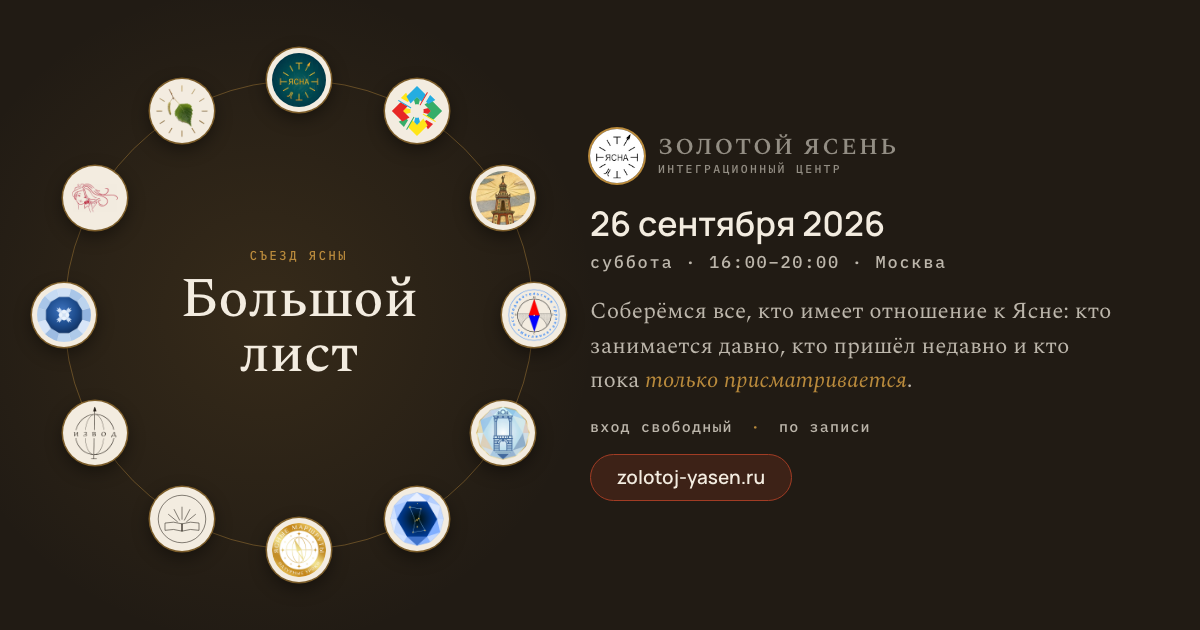
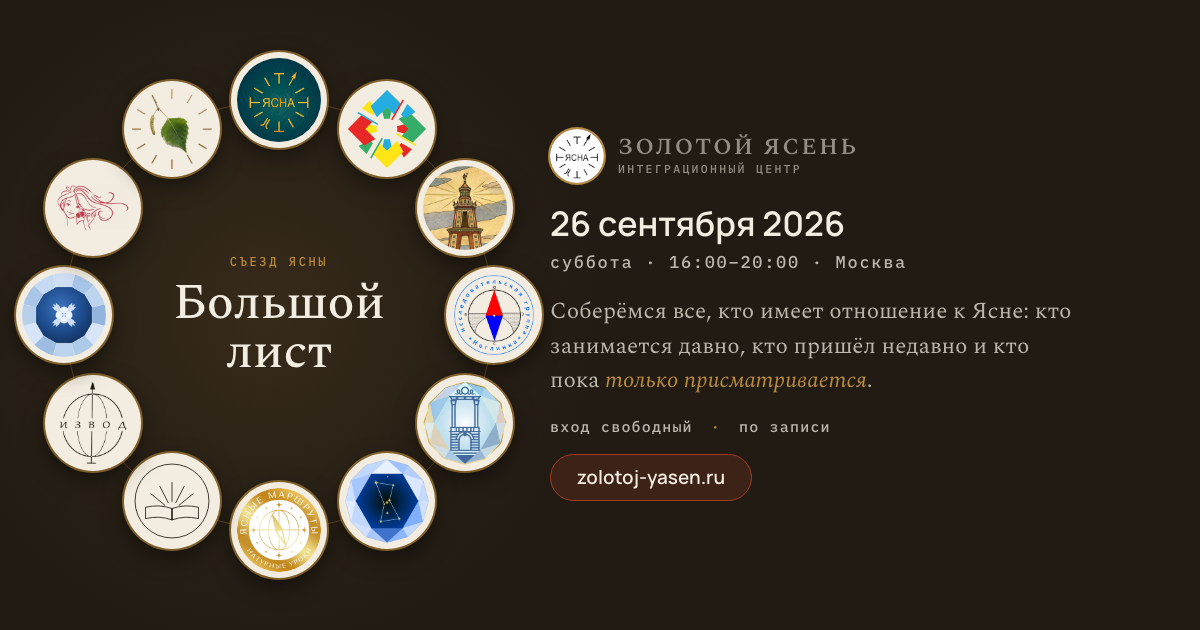
Приглашение: эмблемы крупнее и теснее по кольцу
Медальоны на вертикальной картинке выросли со 98 до 150px, просвет
между ними сжался со 101 до 38px — логотипы читаются, кольцо стало
плотным. Кольцо пришлось сжать с 760 до 720px, а текст в центре
с 520 до 440px: иначе углы текстового блока заходили под медальоны.

Горизонтальная подтянута к паре: медальоны 64 → 96px, кольцо
470 → 430px, чтобы верхний и нижний не обрезались краем карточки.
Геометрия проверена расчётом: просветы и зазор до текста считаются
в скрипте перед рендером.

Changed region(s): [[0.0, 0.0603, 0.925, 0.9349], [0.185, 0.5429, 0.3083, 0.6032], [0.185, 0.3921, 0.2775, 0.4222]]

diff --git a/tools/priglashenie/maket.html b/tools/priglashenie/maket.html
@@ -33,19 +33,19 @@
 
   /* кольцо: двенадцать управлений вокруг названия — образ съезда */
   .ring{position:relative; margin:0 auto}
-  body.v .ring{width:760px; height:760px; margin-top:82px}
+  body.v .ring{width:720px; height:720px; margin-top:68px}
   .ring .circle{position:absolute; inset:0; border-radius:50%;
     border:1px solid rgba(185,138,60,.42)}
   .ring .med{position:absolute; left:var(--x); top:var(--y); transform:translate(-50%,-50%);
-    width:98px; height:98px; border-radius:50%; overflow:hidden; background:var(--paper);
-    box-shadow:0 0 0 2px rgba(185,138,60,.6), 0 10px 28px rgba(0,0,0,.45)}
-  .ring .med img{width:100%; height:100%; object-fit:cover; padding:8px; border-radius:50%}
+    width:150px; height:150px; border-radius:50%; overflow:hidden; background:var(--paper);
+    box-shadow:0 0 0 2.5px rgba(185,138,60,.62), 0 12px 32px rgba(0,0,0,.5)}
+  .ring .med img{width:100%; height:100%; object-fit:cover; padding:9px; border-radius:50%}
 
   .center{position:absolute; left:50%; top:50%; transform:translate(-50%,-50%);
-    width:520px; text-align:center}
+    width:440px; text-align:center}
   .kicker{font:500 17px/1.5 'IBM Plex Mono',monospace; letter-spacing:.24em;
     text-transform:uppercase; color:var(--gold); margin-bottom:18px}
-  .title{font:500 96px/.98 'Spectral',Georgia,serif; letter-spacing:-.01em}
+  .title{font:500 88px/.98 'Spectral',Georgia,serif; letter-spacing:-.01em}
   .date{margin-top:22px; font:600 30px/1.3 'Manrope',sans-serif; color:var(--paper)}
   .time{margin-top:8px; font:500 20px/1.5 'IBM Plex Mono',monospace;
     letter-spacing:.1em; color:var(--pg)}

diff --git a/tools/priglashenie/maket-gorizont.html b/tools/priglashenie/maket-gorizont.html
@@ -17,17 +17,17 @@
     transform:translate(-50%,-50%); pointer-events:none;
     background:radial-gradient(circle, rgba(185,138,60,.14), rgba(33,27,20,0) 62%)}
 
-  .ring{position:relative; width:470px; height:470px; flex:none}
+  .ring{position:relative; width:430px; height:430px; flex:none}
   .ring .circle{position:absolute; inset:0; border-radius:50%; border:1px solid rgba(185,138,60,.42)}
   .ring .med{position:absolute; left:var(--x); top:var(--y); transform:translate(-50%,-50%);
-    width:64px; height:64px; border-radius:50%; overflow:hidden; background:var(--paper);
-    box-shadow:0 0 0 1.5px rgba(185,138,60,.6), 0 6px 18px rgba(0,0,0,.45)}
-  .ring .med img{width:100%; height:100%; object-fit:cover; padding:5px; border-radius:50%}
+    width:96px; height:96px; border-radius:50%; overflow:hidden; background:var(--paper);
+    box-shadow:0 0 0 2px rgba(185,138,60,.62), 0 8px 22px rgba(0,0,0,.5)}
+  .ring .med img{width:100%; height:100%; object-fit:cover; padding:6px; border-radius:50%}
   .ring .center{position:absolute; left:50%; top:50%; transform:translate(-50%,-50%);
-    width:300px; text-align:center}
+    width:250px; text-align:center}
   .ring .kicker{font:500 12px/1.5 'IBM Plex Mono',monospace; letter-spacing:.22em;
     text-transform:uppercase; color:var(--gold); margin-bottom:8px}
-  .ring .title{font:500 56px/.98 'Spectral',Georgia,serif}
+  .ring .title{font:500 50px/.98 'Spectral',Georgia,serif}
 
   .right{flex:1; display:flex; flex-direction:column; gap:20px; position:relative}
   .top{display:flex; align-items:center; gap:14px}
